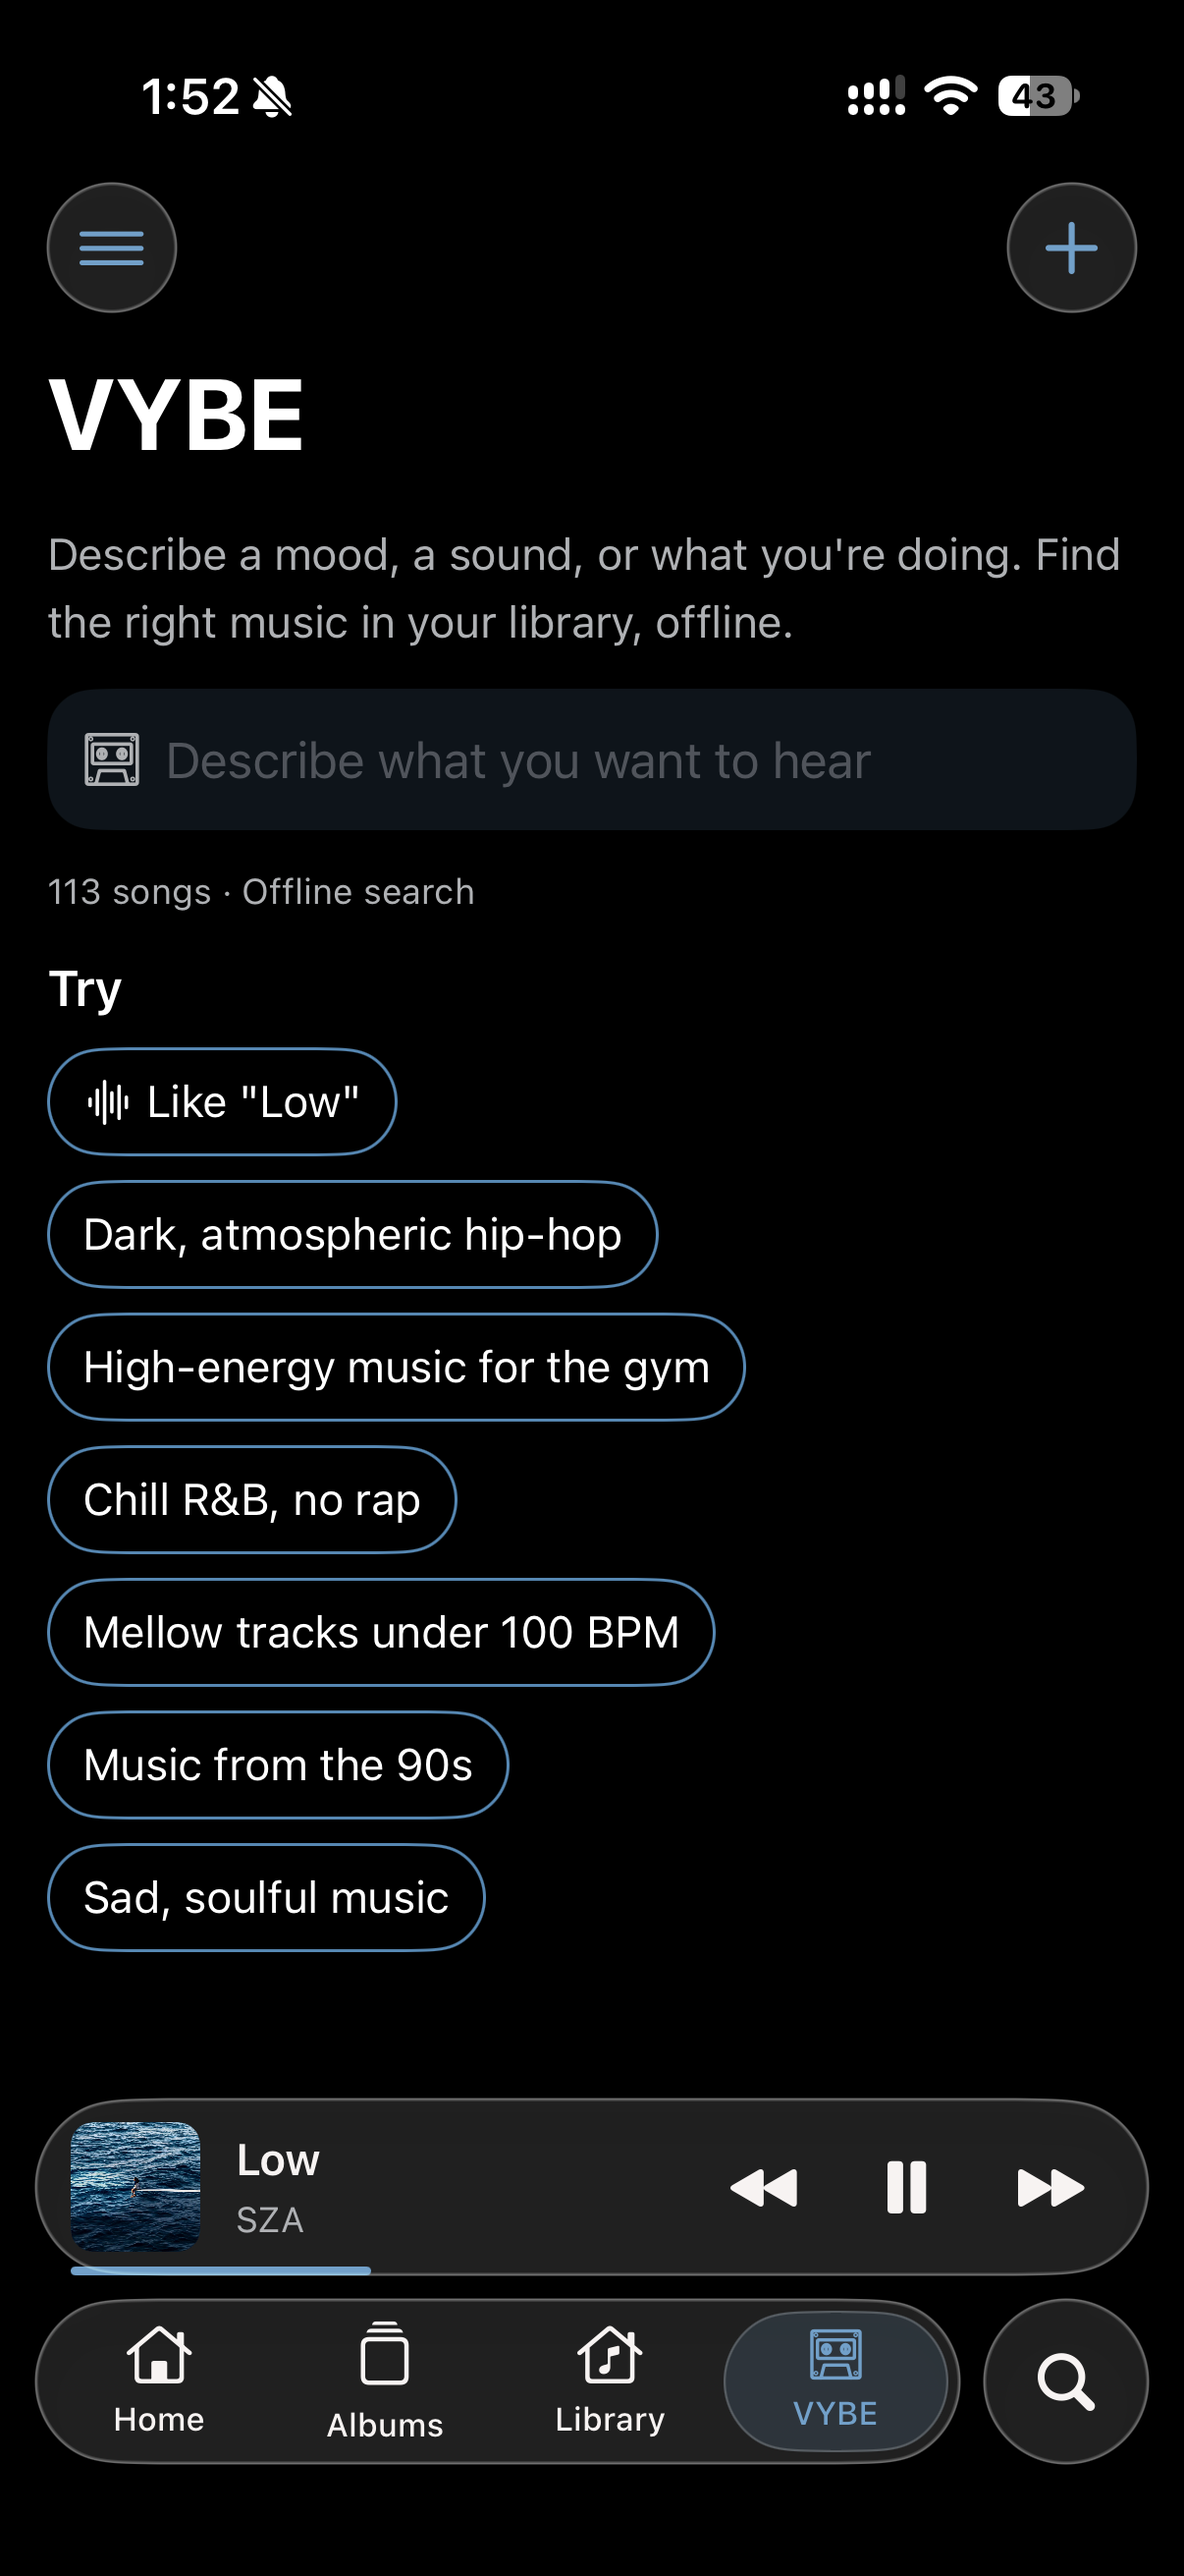
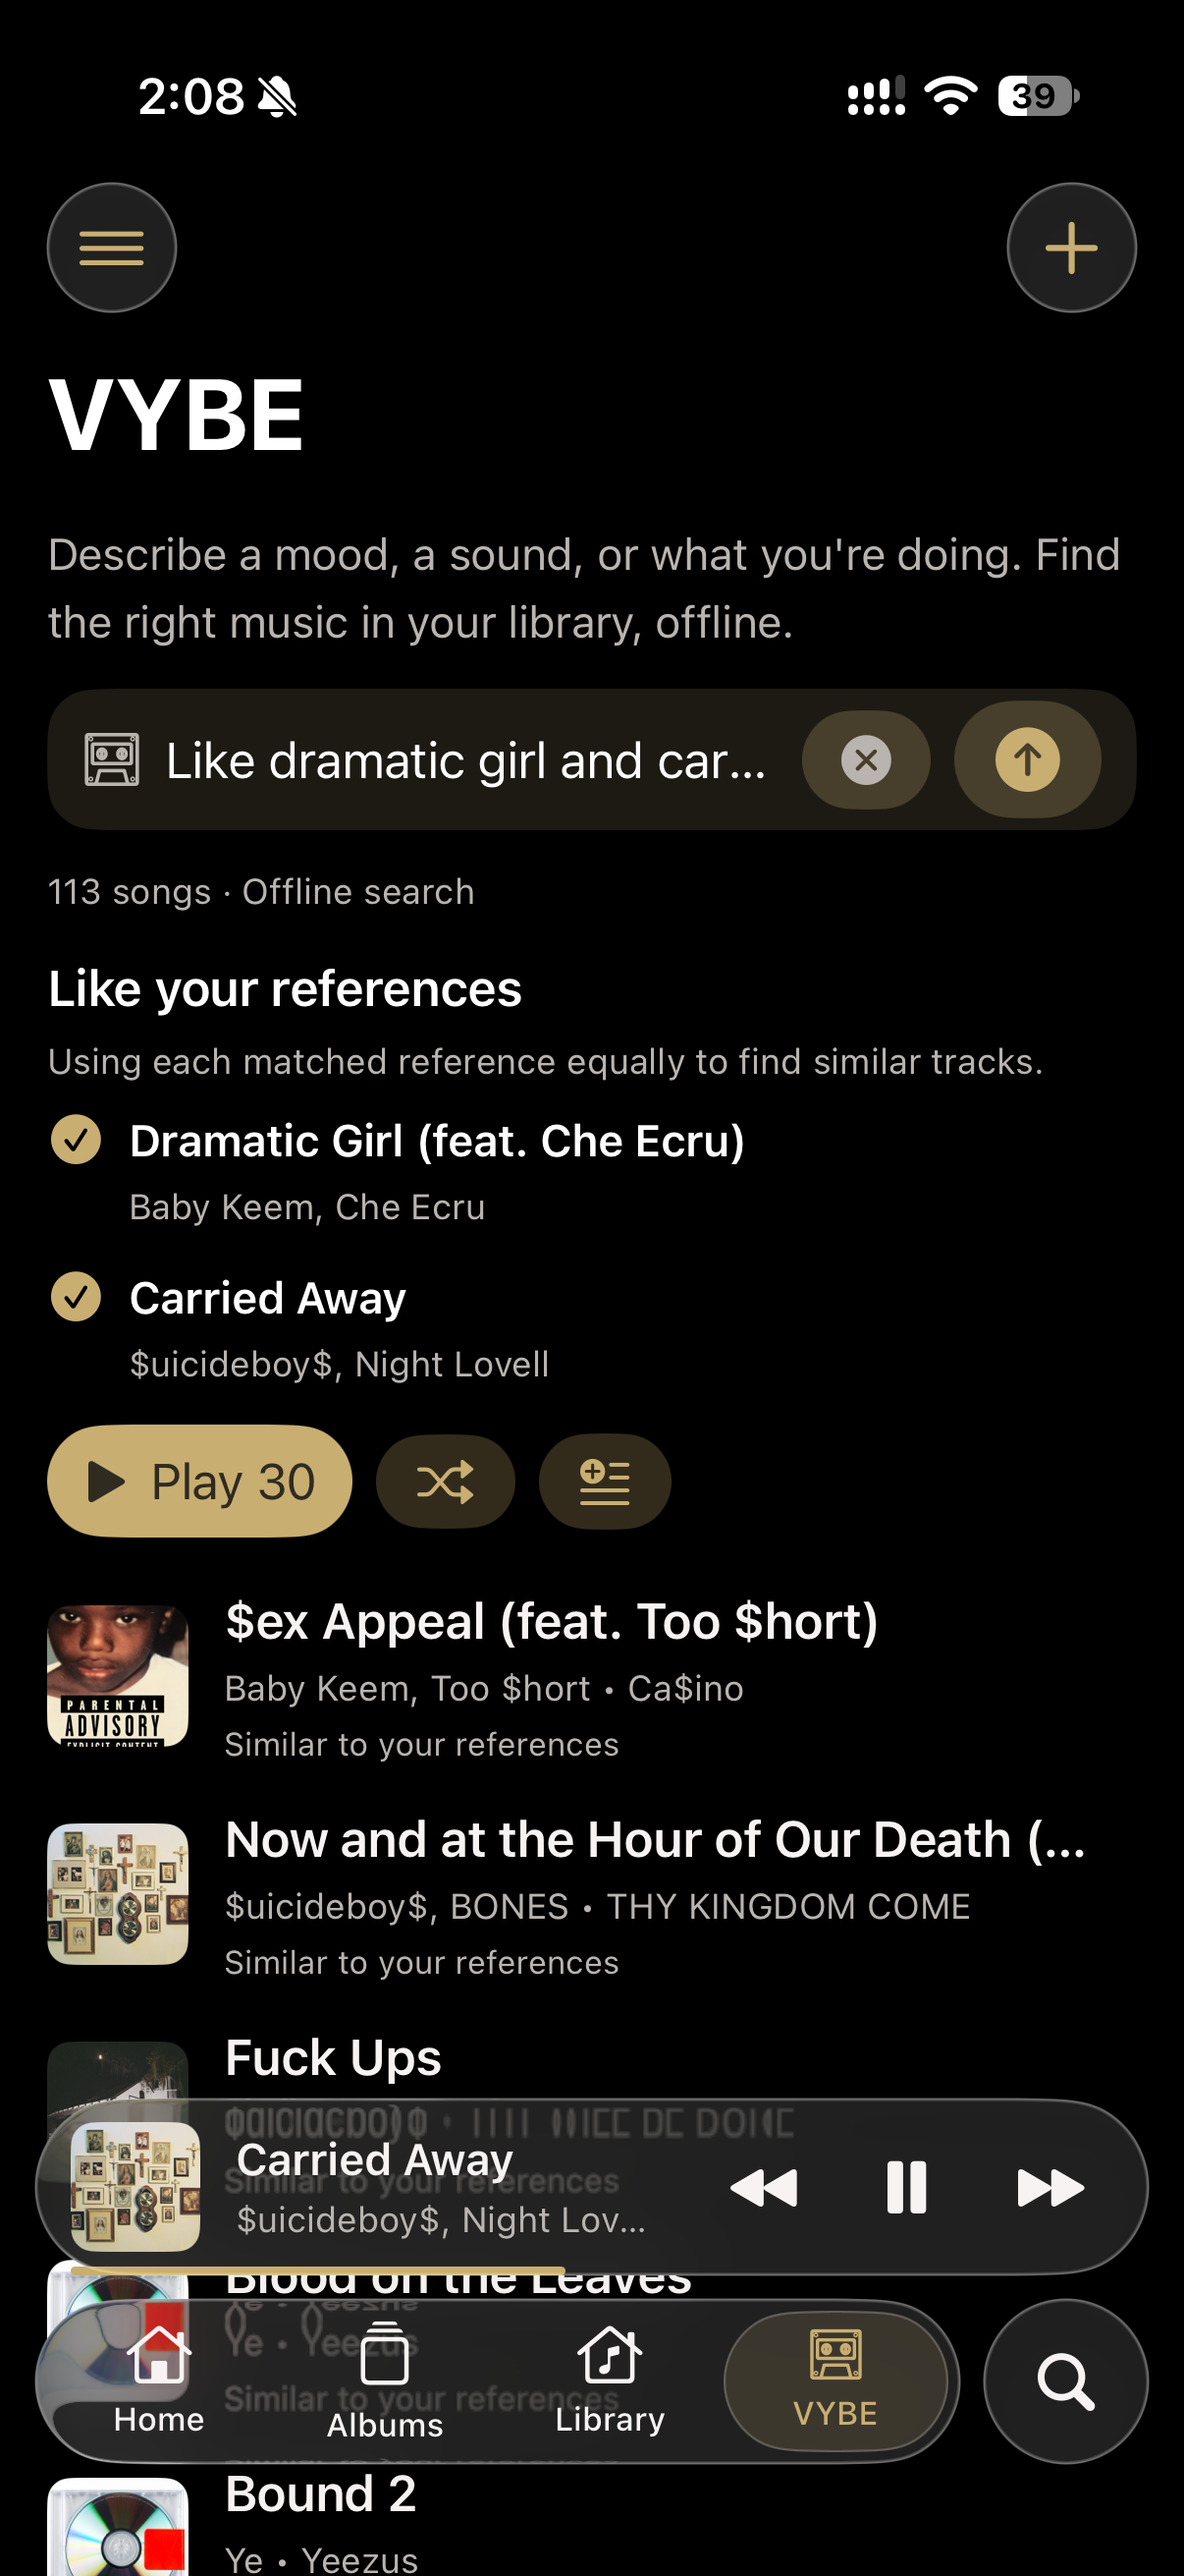
Replace VYBE gallery image with search results [skip ci]

diff --git a/docs/screenshots/README.md b/docs/screenshots/README.md
@@ -13,7 +13,7 @@ The uploaded images were renamed for readability. Their image contents are uncha
 | --- | --- | --- | --- |
 | Home | `home.png` | `IMG_6158.png` | Main gallery |
 | Now Playing | `now-playing.png` | `IMG_6159.png` | Main gallery |
-| VYBE | `vybe.png` | `IMG_6160.png` | Main gallery |
+| VYBE search results | `vybe.png` | `IMG_6176.png` | Main gallery |
 | Full-screen lyrics | `lyrics.png` | `IMG_6162.png` | Main gallery |
 | Themes and settings | `themes.png` | `IMG_6163.png` | Main gallery |
 | Transition Studio | `transitions.png` | `IMG_6165.png` | Main gallery |
@@ -27,9 +27,8 @@ The uploaded images were renamed for readability. Their image contents are uncha
 | Track menu | `track-menu.png` | `IMG_6171.png` | More screens |
 | Lock Screen | `lock-screen.png` | `IMG_6168.png` | More screens |
 
-The current VYBE image shows the starting screen. A screenshot with a submitted query and
-successful results would be a useful optional replacement; no other screenshot is needed to
-fill the existing gallery.
+The VYBE image shows a submitted search, both matched song references, and similar tracks
+from the library. All gallery slots are filled.
 
 ## Replace an image through GitHub
 

diff --git a/README.md b/README.md
@@ -16,7 +16,7 @@ later as the project grows. The sideloaded app is free to use.
 
 | Home & library | Now Playing | VYBE |
 | :---: | :---: | :---: |
-| <img src="docs/screenshots/home.png" alt="Erhu home with smart playlists and featured albums" width="240" loading="lazy"> | <img src="docs/screenshots/now-playing.png" alt="Now Playing with artwork, playback controls, and lyrics" width="240" loading="lazy"> | <img src="docs/screenshots/vybe.png" alt="VYBE offline discovery search and suggested prompts" width="240" loading="lazy"> |
+| <img src="docs/screenshots/home.png" alt="Erhu home with smart playlists and featured albums" width="240" loading="lazy"> | <img src="docs/screenshots/now-playing.png" alt="Now Playing with artwork, playback controls, and lyrics" width="240" loading="lazy"> | <img src="docs/screenshots/vybe.png" alt="VYBE search matching Dramatic Girl and Carried Away with similar tracks from the library" width="240" loading="lazy"> |
 
 | Lyrics | Themes & settings | Transition Studio |
 | :---: | :---: | :---: |
